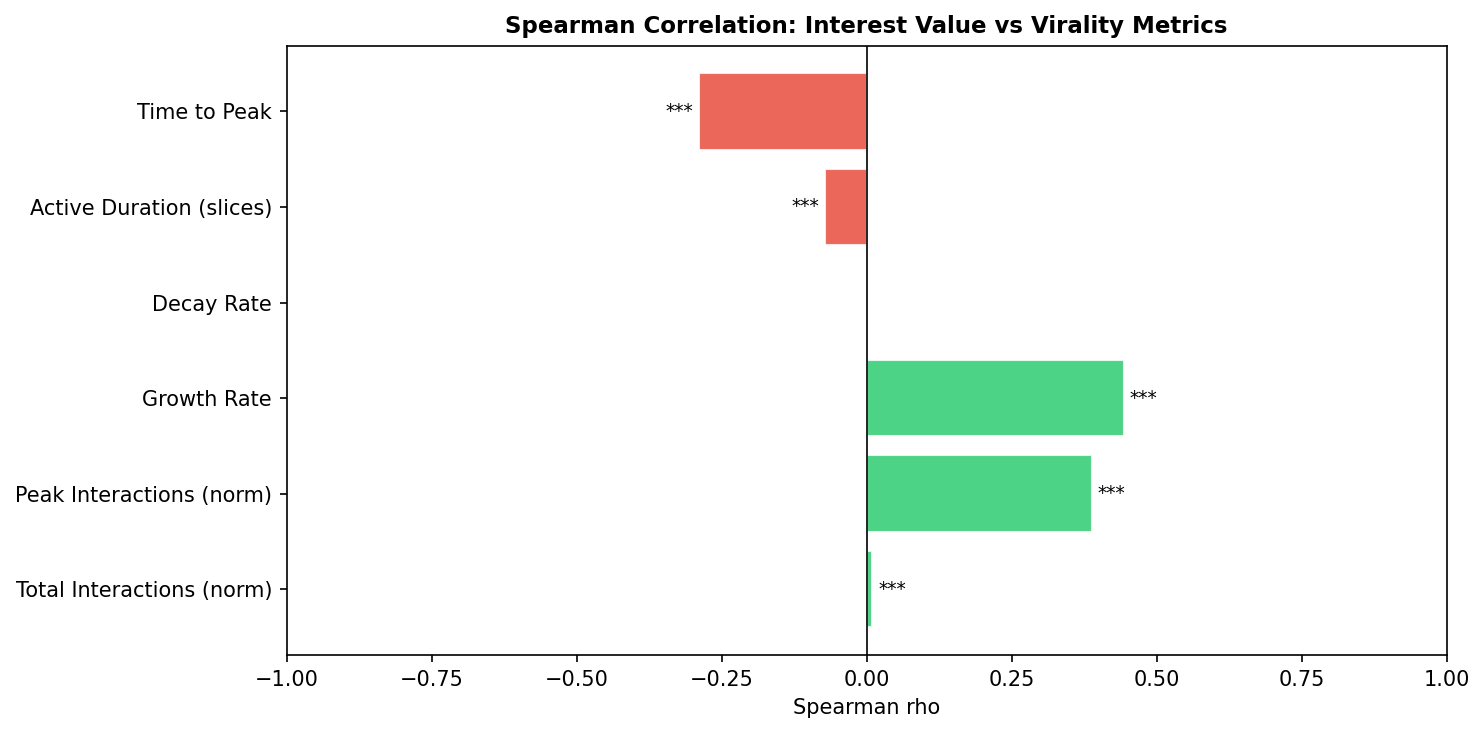
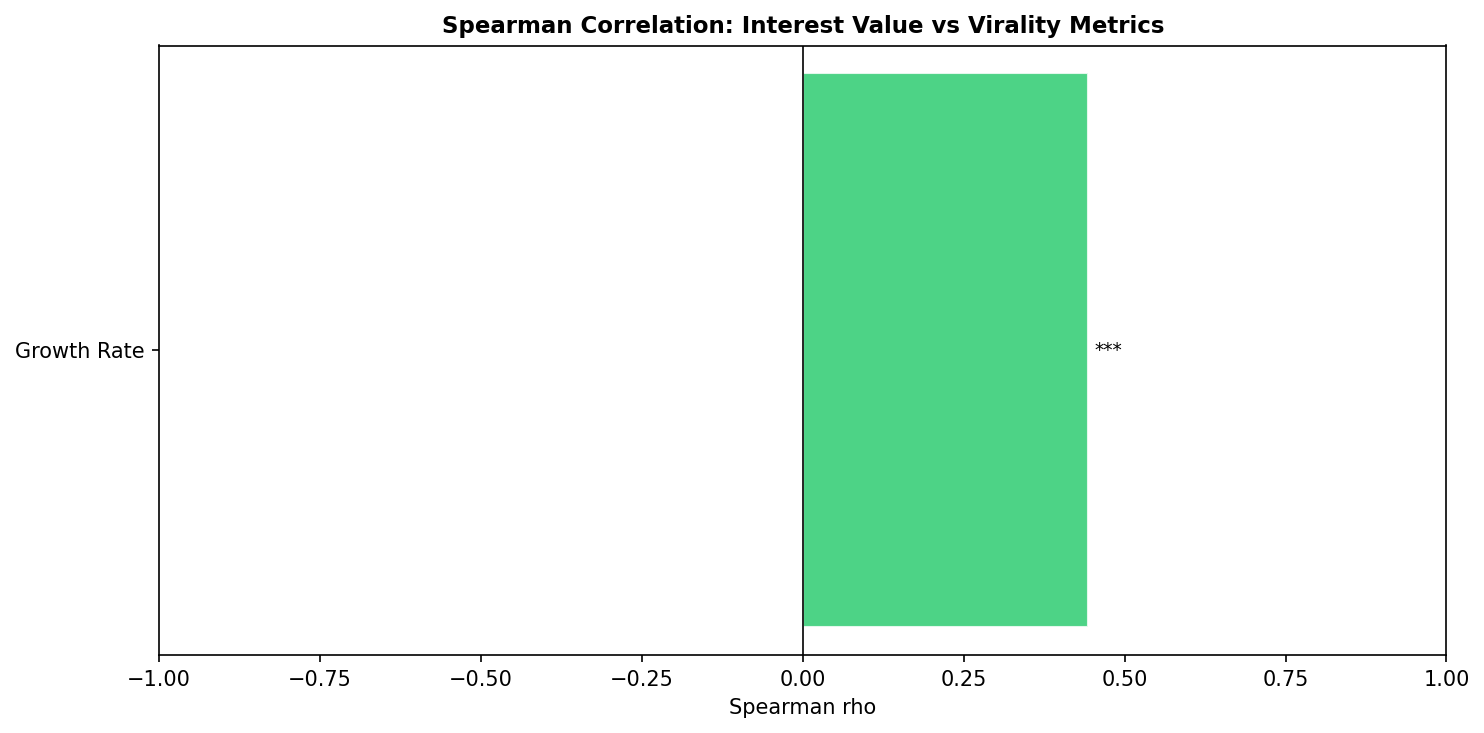
updated analysis to match new definition of virality

diff --git a/Analysis.py b/Analysis.py
@@ -43,7 +43,7 @@ warnings.filterwarnings("ignore")
 # ──────────────────────────────────────────────────────────────
 INPUT_GLOB       = "hyp9-config*.json"
 INPUT_DIR        = Path("output")
-OUTPUT_DIR       = Path("analysis_output")
+OUTPUT_DIR       = Path("analysis")
 N_AGENTS_DEFAULT = 300
 FEATURES_FILE    = "features.npy"   # compact accumulator written during Phase 1
 
@@ -192,13 +192,11 @@ def phase2_analyze(features_path, out_dir, n_agents):
     dur   = F[:, COL["active_duration"]]
 
     # Virality metrics to test against interest_value
+    # Growth rate and decay rate directly capture the rise/fall shape of the
+    # interaction curve, which is the core definition of virality being tested.
     METRICS = {
-        "Total Interactions (norm)": total,
-        "Peak Interactions (norm)":  peak,
-        "Growth Rate":               grow,
-        "Decay Rate":                decay,
-        "Active Duration (slices)":  dur,
-        "Time to Peak":              t2p,
+        "Growth Rate": grow,
+        "Decay Rate":  decay,
     }
 
     report_lines = [
@@ -261,8 +259,8 @@ def phase2_analyze(features_path, out_dir, n_agents):
     # ── PLOTS ────────────────────────────────────────────────────
     print("  Generating plots ...")
 
-    # Fig 1 — Scatter: IV vs each virality metric with regression line
-    fig, axes = plt.subplots(2, 3, figsize=(16, 10))
+    # Fig 1 — Scatter: IV vs growth rate and decay rate with regression line
+    fig, axes = plt.subplots(1, 2, figsize=(12, 5))
     fig.suptitle("Interest Value vs Virality Metrics\n(scatter + linear regression)",
                  fontsize=13, fontweight="bold")
     for ax, (ylabel, yarr) in zip(axes.ravel(), METRICS.items()):
